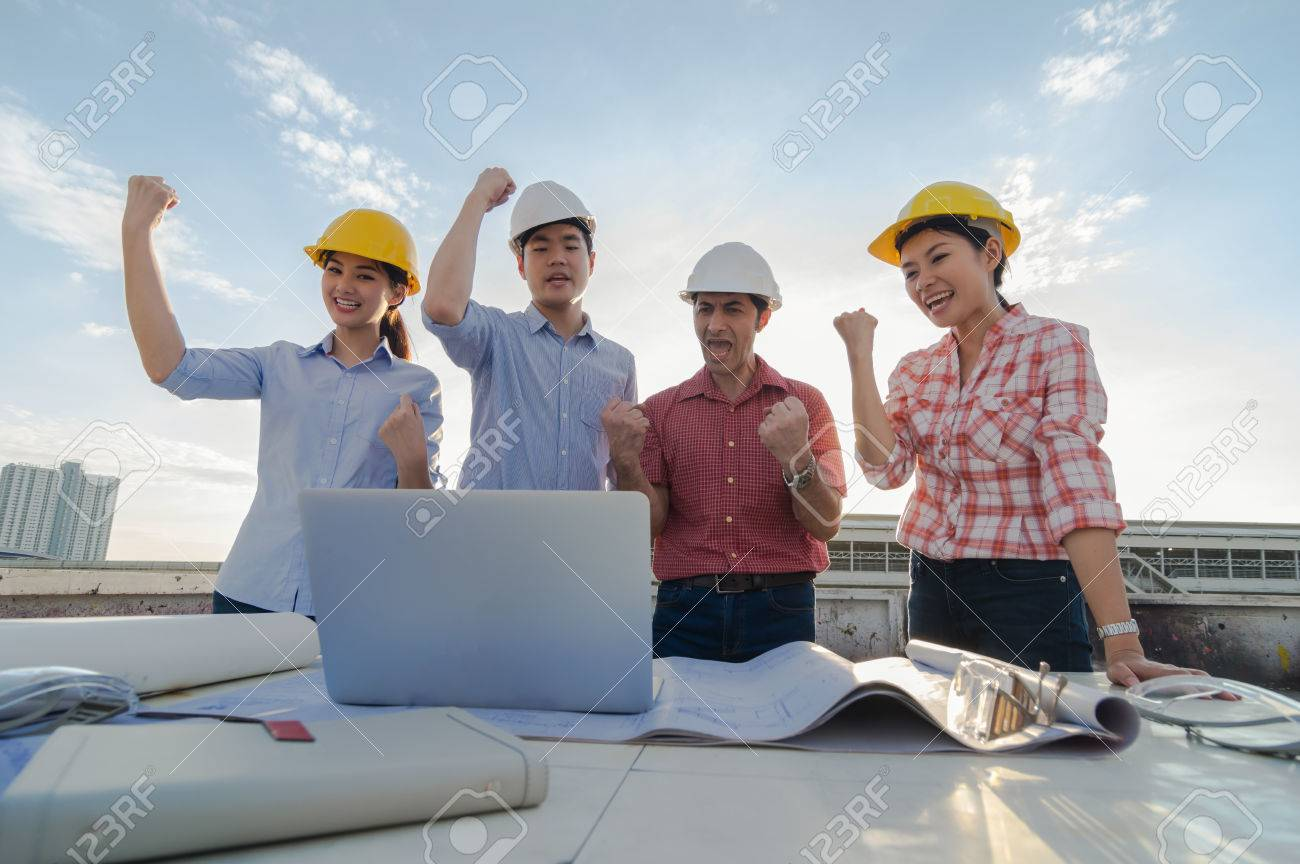
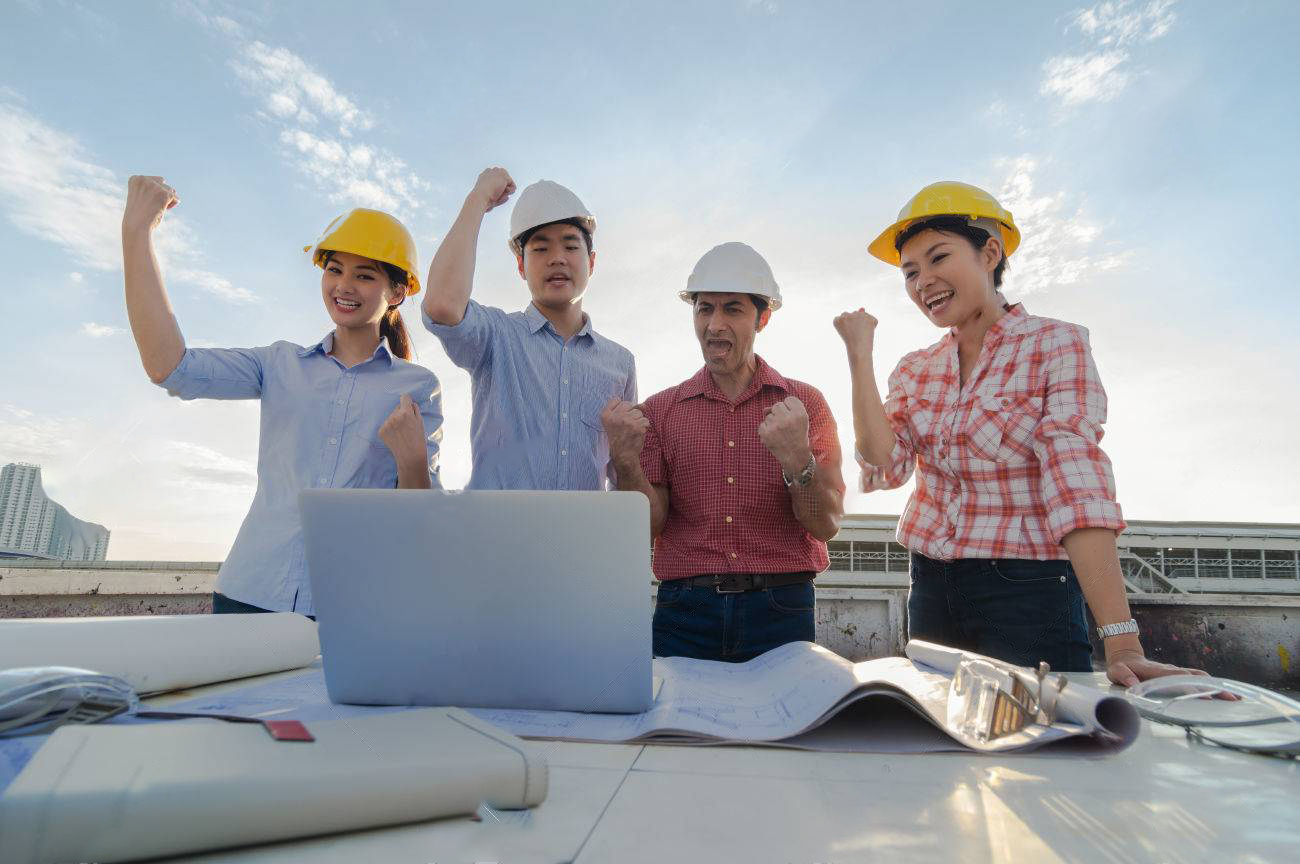
subiendo nueva img de nostros solucionado error carousel responsive section clientes

diff --git a/index.html b/index.html
@@ -20,7 +20,7 @@
     <div class="nav__secondary">
         <div class="contendor__logo">
             <figure class="figure_logo_second">
-                <img src="./assets/LogoFooterFase.png" alt="LOGO EMPRESA">
+                <img src="./assets/LogoMobiliarioFooterRGB.png" alt="LOGO EMPRESA">
             </figure>
         </div>
         <div class="menu">
@@ -101,7 +101,7 @@
     <div class="principal">
         <div class="header__logo">
             <figure class= "header__img">
-                <img src="./assets/LogoMobiliario.png" alt="Logo MOBILIARIO">
+                <img src="./assets/LogoMobiliarioRGB.png" alt="Logo MOBILIARIO">
             </figure>
         </div>
         <header class="header__navbar">
@@ -109,7 +109,7 @@
             
             <ul class="container_lista">
                 <li class="lista">
-                    <a href="#/home">INICIO</a>
+                    <a href="http://127.0.0.1:5501/index.html#/home">INICIO</a>
                 </li>
                 <li class="lista">
                     <a  href="#/nosotros">NOSOTROS</a>
@@ -214,7 +214,7 @@
         <div class="footer_rigth">
             <div class="footer__logo">
                 <figure class="contenedor__img">
-                    <img src="./assets/LogoFooterFase.png" alt="Logo MOBILIARIO">
+                    <img src="./assets/LogoMobiliarioSloganRGB.png" alt="Logo MOBILIARIO">
                 </figure>
             </div>
             <div class="footer__redes">

diff --git a/index.js b/index.js
@@ -18,16 +18,20 @@ d.addEventListener("DOMContentLoaded", () => {
     menuNavFloat()
     Route()
     
-    // const imgCarousel = d.querySelectorAll(".img__carousel")
-    //     const inicio = e => {
-    //         imgCarousel.forEach( img => {
-    //             console.log(img)
-    //             img.classList.add("active")
-    //         })
-    //     }
-    // inicio()
+    
     w.addEventListener("hashchange", e => {
         Route()
     })
+
+    const imgCarousel = d.querySelectorAll(".img__carousel")
+    const inicio = e => {
+            imgCarousel.forEach( img => {
+                console.log(img)
+                img.classList.add("active")
+            })
+        }
+    setTimeout(()=>{
+        inicio()
+    }, 200)
 })
 

diff --git a/js/ScrollEfecHome.js b/js/ScrollEfecHome.js
@@ -22,13 +22,13 @@ const scrollEfecHome = () => {
                 sectionOne = $sectionOne.offsetTop
         // console.log(sectionOne - 100)
 
-        if(sectionTwo - 180  < menuScroll){
-            // console.log("llegue")
+        if(sectionTwo - 350  < menuScroll){
+            console.log("llegue")
             $efecto.forEach(efec => {
                 efec.classList.add("anima")
             })
         }
-        if(sectionThree - 300 < menuScroll){
+        if(sectionThree - 350 < menuScroll){
             $efectoGallery.classList.add("anima")
             $efectoThree.forEach(efect => {
                 efect.style.transition = "2s all"

diff --git a/styles/Home.css b/styles/Home.css
@@ -476,7 +476,7 @@ a{
 
 .section__five{
     width: 100%;
-    padding: 45px;
+    padding: 35px;
     margin-bottom: 32px;
 }
 .section__five_titulo{
@@ -496,7 +496,7 @@ a{
     justify-content: center;
 }
 .figure__clientes{
-    width: 220px;
+    width: 200px;
     height: 130px;
     background-color: #666666;
     text-align: center;
@@ -546,6 +546,12 @@ a{
     }
     .footer__redes{
         align-items: center;
+    }
+    .section__five{
+        padding: 35px 0px;
+    }
+    .contenedor__clientes{
+        flex-wrap: wrap;
     }
 }
 

diff --git a/routes/index.routes.js b/routes/index.routes.js
@@ -16,7 +16,19 @@ const Route = () => {
         console.log("Home")
 
         root.appendChild(Home())
+
         const imgCarousel = d.querySelectorAll(".img__carousel")
+        const inicio = e => {
+            imgCarousel.forEach( img => {
+                console.log(img)
+                img.classList.add("active")
+            })
+        }
+        setTimeout(()=>{
+            inicio()
+        }, 200)
+
+        
         Carousel(imgCarousel)
         scrollEfecHome()
     }else if( hash === "#/nosotros"){

diff --git a/js/Carousel.js b/js/Carousel.js
@@ -16,11 +16,12 @@ const Carousel = (img) => {
         }
         $slider[i].classList.add("opacity")
         if(i === 0){
+            console.log("3 slides")
             setTimeout(() => {
                 img.forEach( j => {
                     j.classList.add("active")
                 })
-            },300)
+            },200)
         }
         if(i != 0){
             img.forEach(j => {

diff --git a/styles/navbarFooter.css b/styles/navbarFooter.css
@@ -564,9 +564,9 @@ menu{
         background-color: rgba(55, 55, 57, .5);
         width: 100%;
         height: 100vh;
-        position: fixed;
+        position:absolute;
         z-index: 200;
-        top: 165px;
+        top: 45px;
         opacity: 0;
         transition: .5s all;
         transform: translateX(1500px);
